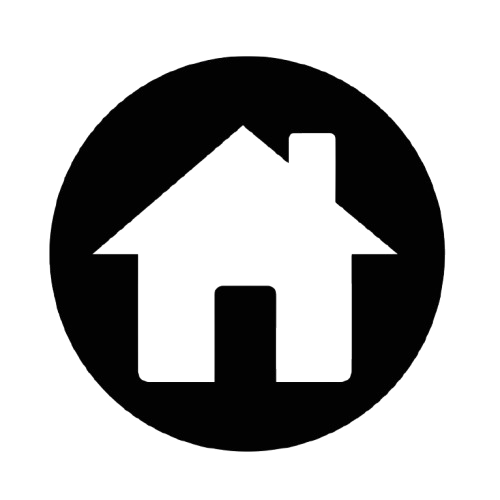
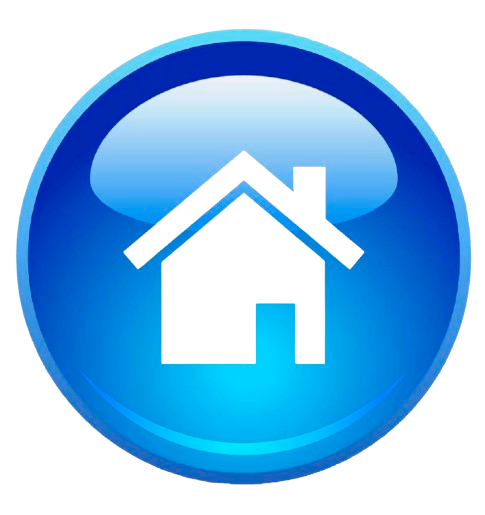
por fin se agrego el checkbox a el apartado de servicios, se mejoraron muchos apartados esteticos

diff --git a/services/service.py b/services/service.py
@@ -1,5 +1,4 @@
 from kivy.uix.boxlayout import BoxLayout
-from Backend.Repuestos import View
 from kivy.uix.checkbox import CheckBox
 from kivy.uix.label import Label
 from kivy.uix.gridlayout import GridLayout
@@ -13,45 +12,48 @@ class Servis_item(BoxLayout):
 
         self.add_widget(Label(text=name, size_hint_x=0.8))
 
-        checkbox = CheckBox(size_hint_max=0.2)
+        checkbox = CheckBox(size_hint_x=0.2)
         checkbox.bind(active=self.checkbox_changed)
         self.add_widget(checkbox)
 
     def checkbox_changed(self, checkbox , value):
         self.on_select(self.name , value)
-class Servicios(BoxLayout, View):
+class Servicios(BoxLayout):
     def __init__(self, **kwargs):
         super().__init__(**kwargs)
 
     def servis_list(self):
-        caja = self.ids.servis
+        caja = self.ids._serv_
         caja.clear_widgets()
 
         self.selected = set()
 
-        root = BoxLayout(orientation='vertical', padding=10, spacing=10)
+        caja.add_widget(Label(text="===SERVIVOS===", size_hint_y=None, height=40))
 
-        # Scroll con lista de productos
+        for titulo in ["servicio, Precio"]:
+            caja.add_widget(Label(text=titulo, size_hint_y=None, height=40))
+
         scroll = ScrollView(size_hint=(1, 0.8))
         product_list = GridLayout(cols=1, spacing=5, size_hint_y=None)
         product_list.bind(minimum_height=product_list.setter('height'))
 
-        for titulo in ["===SERVIVOS==="]:
-            caja.add_widget(titulo)
-
         servicios = ["Lavado", "Mantenimiento"]
+        #precios = ["$20", "$50"]
 
         for servicio in servicios:
             item = Servis_item(servicio, self.togglet_item)
             product_list.add_widget(item)
 
         scroll.add_widget(product_list)
-        root.add_widget(scroll)
+        caja.add_widget(scroll)
 
 
     def togglet_item(self, name, is_select):
 
         if is_select:
-            self.selected_items.add(name)
+            self.selected.add(name)
         else: 
             self.selected.discard(name)
+
+    def show_selected(self):
+        print("seleccionados", list(self.selected))

diff --git a/menu.py b/menu.py
@@ -1,13 +1,14 @@
 from kivy.app import App
 from kivy.uix.boxlayout import BoxLayout
 from Backend.Repuestos import Ventasclass, Add
+from services.service import Servicios
 from kivy.lang import Builder
 from kivy.uix.screenmanager import ScreenManager, Screen
 
 Builder.load_file("Backend/Repuestos.kv")
 Builder.load_file("Backend/Add.kv")
 Builder.load_file("Backend/View.kv")
-Builder.load_file("services/service.kv")
+Builder.load_file("services/Service.kv")
 
 class MenuScreen(Screen):
     def back(self):

diff --git a/Backend/Repuestos.py b/Backend/Repuestos.py
@@ -83,6 +83,7 @@ class View(BoxLayout):
 
 
     scroll.add_widget(product_list)
+    contenedor.add_widget(scroll)
     
    
    def togglet_item(self, Nombre , is_selected):
@@ -97,6 +98,9 @@ class View(BoxLayout):
             Label(text="No hay producto seleccionado")
          )
          return
+      else: self.ids._inventario_.add_widget(
+            Label(text="No hay producto seleccionado")
+         )
       
       nombre = self.seleccionador.Nombre
 
